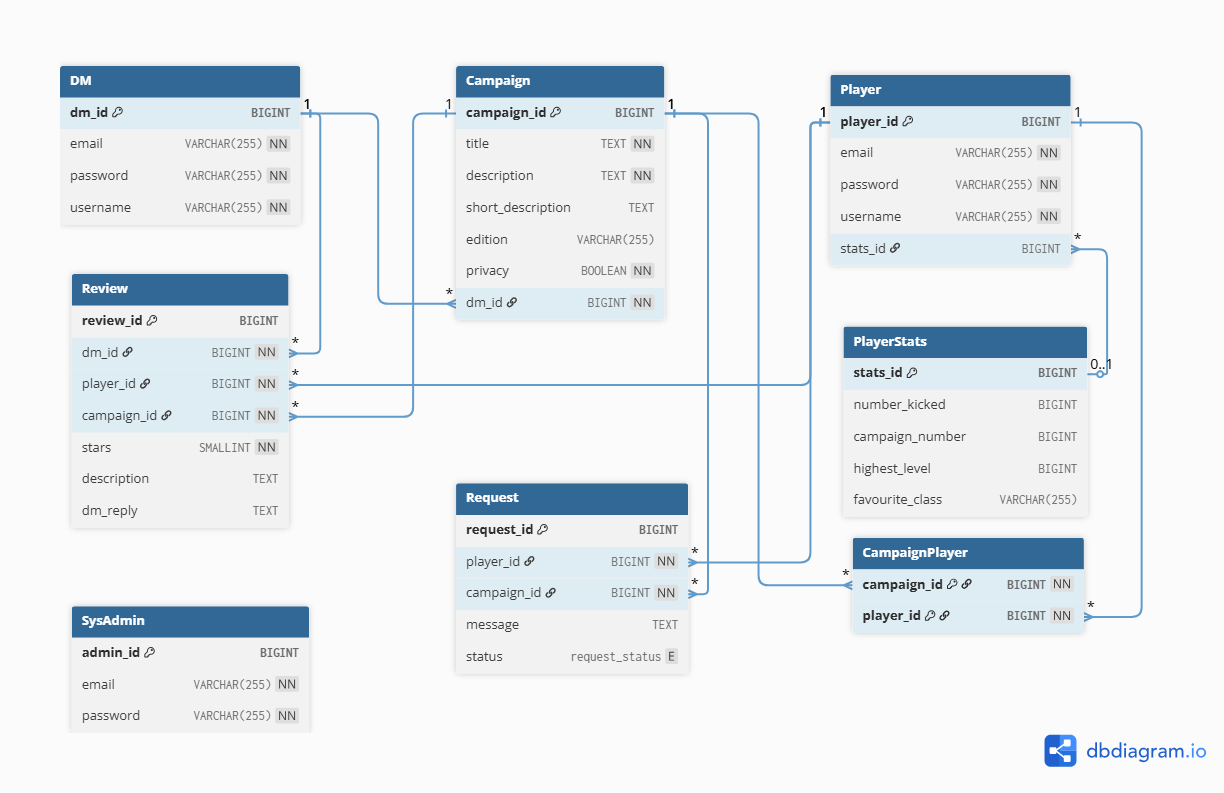
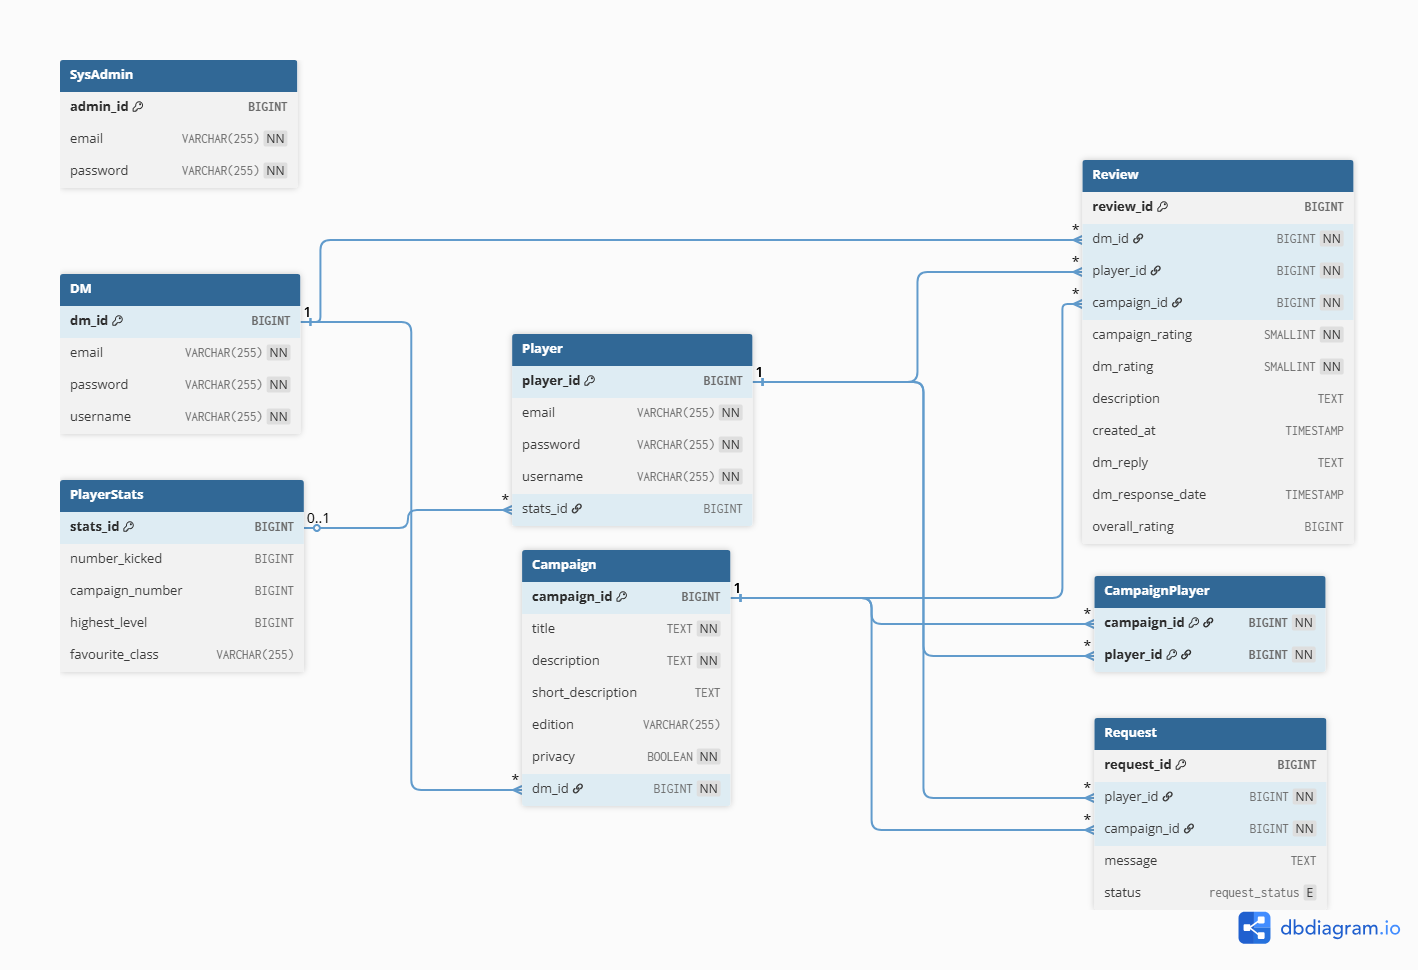
Updated previously written documentation to reflect the changes made to the Nat20 Network program. Additionally, I updated the schema to match the updated database model.

diff --git a/doc/Nat20 Network SRS.md b/doc/Nat20 Network SRS.md
@@ -41,6 +41,7 @@ Table of Contents
 | Nehemiah | 9/17    | System Admin Requirements | 1.1       |
 | Caleb    | 9/18    | DM Requirements           | 1.2       |
 | Brycen   | 9/18    | Player Requirements       | 1.3       |
+| Caleb    | 12/11   | Update Documentation      | 1.4       |
 
 ## 1. Introduction
 
@@ -100,17 +101,15 @@ User interface must support multiple user roles with appropriate permissions, th
 ### 3.1 Functional Requirements 
 * FR0: The system shall allow users to create an account as either a player or a DM.
 * FR1: The system shall allow users to modify their profiles on their own at any time.
-* FR2: The system shall allow DMs to create campaigns that are open to the public or available by invite only.
+* FR2: The system shall allow DMs to create campaigns that are open to the public
   * Each campaign will have additional information such as what edition is being used and a short description of its contents.
 * FR3: The system shall allow DMs to view user-specific data associated with their previous play experiences.
 * FR4: The system shall allow DMs to respond to reviews from their previous players regarding the behaviour and performance of the DM.
-* FR5: The system shall allow SysAdmins to promote or demote users between roles (Player ↔ DM).
-* FR6: The system shall allow SysAdmins to deactivate or delete user accounts.
-* FR7: The system shall allow SysAdmins to reset passwords and assist with account recovery.
-* FR8: The system shall allow SysAdmins to review and remove inappropriate or inactive campaigns.
-* FR9: The system shall allow SysAdmins to moderate reported reviews and remove offensive or fraudulent content.
-* FR10: The system shall allow players to create characters for campaigns that they join.
-* FR11: The system shall allow players to give feedback and give reviews for campaigns that they join.
+* FR5: The system shall allow SysAdmins to deactivate or delete user accounts.
+* FR6: The system shall allow SysAdmins to reset passwords and assist with account recovery.
+* FR7: The system shall allow SysAdmins to review and remove inappropriate or inactive campaigns.
+* FR8: The system shall allow SysAdmins to moderate reported reviews and remove offensive or fraudulent content.
+* FR9: The system shall allow players to give feedback and give reviews for campaigns that they join.
 
 
 #### 3.1.1 User interfaces
@@ -131,10 +130,8 @@ Web pages using HTML, CSS, JavaScript, and an API.
 
 #### 3.2.1 Performance
 * NFR1: The Nat20 Network system shall consume less than 300 MB of memory.
-* NFR2: A novice player shall be able to create a character in under 30 minutes.
-* NFR3: An advanced player shall be able to create a character in under 15 minutes.
-* NFR4: A novice DM should be able to create a new campaign in under 15 minutes. 
-* NFR5: An advanced DM shall be able to create a new campaign in under 10 minutes. 
+* NFR2: A novice DM should be able to create a new campaign in under 15 minutes. 
+* NFR3: An advanced DM shall be able to create a new campaign in under 10 minutes. 
 
 #### 3.2.2 Security
 * The system is going to be available only to those who have created and activated an account.
@@ -142,12 +139,12 @@ Web pages using HTML, CSS, JavaScript, and an API.
 #### 3.2.3 Reliability
 
 #### 3.2.4 Availability
-NFR7: The system is going to be available at all times of the day. Maintenance shall be scheduled for low user hours such as 3 A.M EST to reduce the impact that it will have on user experience. 
+NFR4: The system is going to be available at all times of the day. Maintenance shall be scheduled for low user hours such as 3 A.M EST to reduce the impact that it will have on user experience. 
 
 #### 3.2.5 Compliance
 
 #### 3.2.6 Cost
-NFR8: The expected monetary cost of the project is $0
+NFR5: The expected monetary cost of the project is $0
 
 #### 3.2.7 Deadline
-* NFR9: The final product must be deployed by December 2025.
+* NFR6: The final product must be deployed by December 2025.
